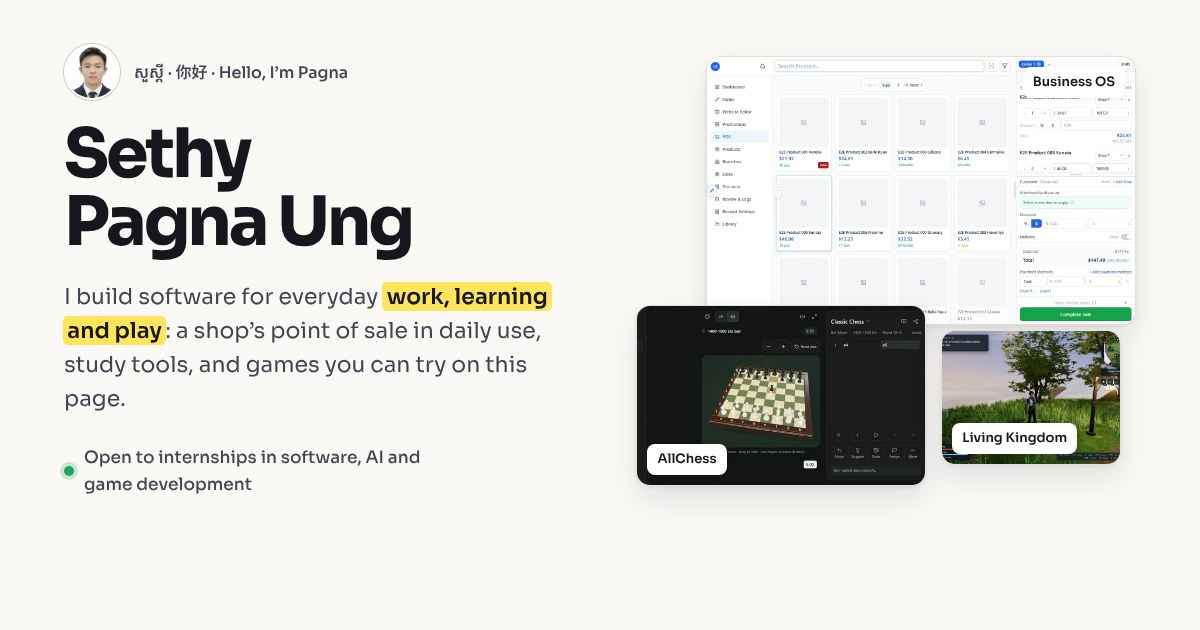
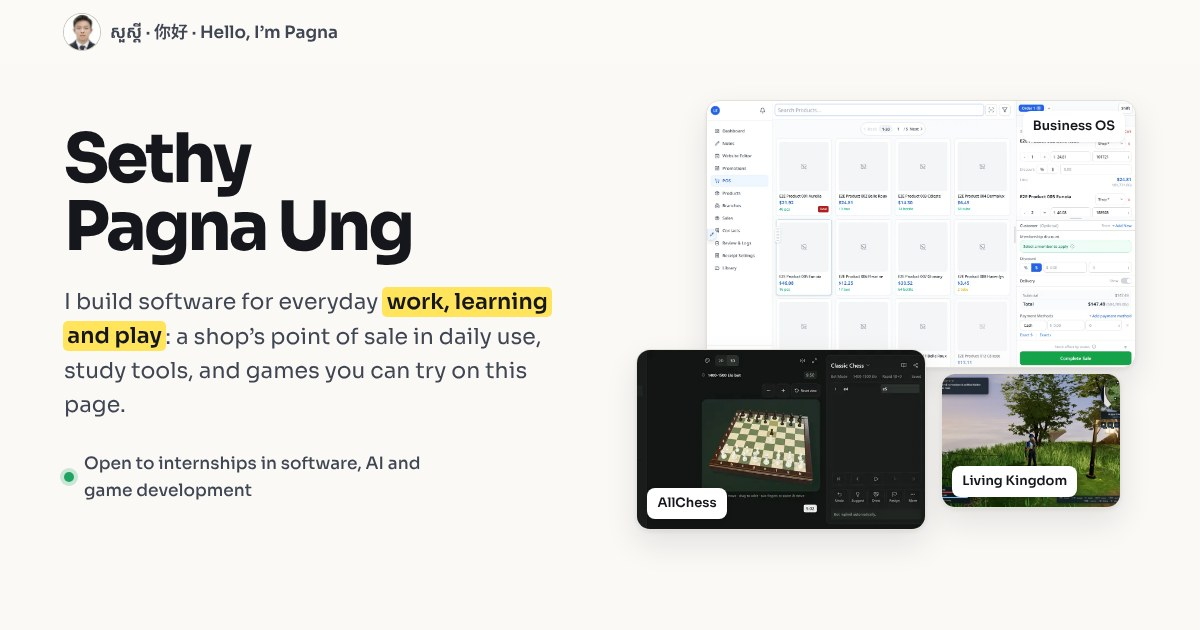
Put the photo and greeting in the top bar and close the hero gap
- The top bar shows the photo and "Hello, I'm Pagna" in place of the
  yellow P mark and name, with the Khmer and Chinese hellos where they
  fit. On screens under 360px only the photo shows, with a spoken name.
- The greeting line is removed from the hero, so the name starts right
  under the bar (36px on desktop instead of about 124px to the name).
- With enlarged text the greeting wraps instead of being cut off.
- The share image is regenerated to match.

Claude-Session: https://claude.ai/code/session_019SAQEoeDjeXiJVpTtL1tnm

diff --git a/portfolio/css/site.css b/portfolio/css/site.css
@@ -158,12 +158,13 @@ kbd {
 
 /* ------------------------------------------------------------ top bar */
 
-.topbar { position: sticky; top: 0; z-index: 40; height: var(--topbar); background: color-mix(in srgb, var(--bg) 88%, transparent); backdrop-filter: saturate(1.4) blur(12px); border-bottom: 1px solid transparent; transition: border-color .2s; }
+.topbar { position: sticky; top: 0; z-index: 40; background: color-mix(in srgb, var(--bg) 88%, transparent); backdrop-filter: saturate(1.4) blur(12px); border-bottom: 1px solid transparent; transition: border-color .2s; }
 .topbar.scrolled { border-bottom-color: var(--line); }
-.topbar-in { display: flex; align-items: center; gap: 24px; height: 100%; }
-.brand { display: inline-flex; align-items: center; gap: 10px; min-height: 40px; color: var(--ink); text-decoration: none; font-weight: 650; letter-spacing: -.01em; white-space: nowrap; }
+.topbar-in { display: flex; align-items: center; gap: 24px; min-height: calc(var(--topbar) - 1px); } /* the bar's bottom border makes up the rest */
+.brand { display: inline-flex; align-items: center; gap: 10px; min-width: 0; min-height: 40px; color: var(--ink-2); text-decoration: none; font-weight: 600; font-size: .9375rem; line-height: 1.25; }
 .brand:hover { color: var(--ink); }
-.brand-mark { display: grid; place-items: center; width: 32px; height: 32px; border-radius: 9px; background: var(--mark); color: var(--on-mark); font-weight: 800; font-size: 1.0625rem; }
+.brand-photo { flex: none; width: 36px; height: 36px; border-radius: 50%; object-fit: cover; box-shadow: 0 0 0 1px var(--line-strong); }
+.brand-hello { min-width: 0; padding-block: 4px; }
 .nav { display: flex; gap: 4px; margin-left: auto; }
 .nav a { padding: 8px 14px; border-radius: var(--radius-sm); color: var(--ink-2); font-weight: 550; font-size: .9375rem; text-decoration: none; }
 .nav a:hover { background: var(--tint); color: var(--ink); }
@@ -179,11 +180,9 @@ kbd {
 
 /* ------------------------------------------------------------ hero */
 
-.hero { padding: clamp(24px, 4vw, 48px) 0 clamp(8px, 1.5vw, 16px); }
-.hero-in { display: grid; grid-template-columns: minmax(0, 1.05fr) minmax(0, 1fr); gap: clamp(32px, 5vw, 72px); align-items: center; }
-.hello { display: flex; align-items: center; gap: 14px; color: var(--ink-2); font-weight: 550; }
-.hello img { width: 56px; height: 56px; border-radius: 50%; object-fit: cover; border: 2px solid var(--surface); box-shadow: 0 0 0 1px var(--line-strong); }
-.hero h1 { margin-top: 20px; font-size: clamp(2.75rem, 6.2vw, 4.75rem); font-weight: 750; letter-spacing: -.045em; line-height: 1; }
+.hero { padding: clamp(20px, 3vw, 36px) 0 clamp(8px, 1.5vw, 16px); }
+.hero-in { display: grid; grid-template-columns: minmax(0, 1.05fr) minmax(0, 1fr); gap: clamp(32px, 5vw, 72px); align-items: start; }
+.hero h1 { margin-top: 0; font-size: clamp(2.75rem, 6.2vw, 4.75rem); font-weight: 750; letter-spacing: -.045em; line-height: 1; }
 .hero-lede { margin-top: 24px; max-width: 34em; font-size: clamp(1.125rem, 1.6vw, 1.3125rem); line-height: 1.55; color: var(--ink-2); }
 mark { padding: .05em .2em; margin: 0 -.05em; border-radius: 5px; background: var(--mark); color: var(--on-mark); font-weight: 600; -webkit-box-decoration-break: clone; box-decoration-break: clone; }
 .hero-cta { display: flex; flex-wrap: wrap; gap: 12px; margin-top: 32px; }
@@ -545,6 +544,9 @@ dialog::backdrop { background: var(--backdrop); }
   .pw-next a:last-child { text-align: left; }
 }
 
+/* the Khmer and Chinese hellos show only where they fit beside the menu: wide screens, and phones from 561 to 720px */
+@media (max-width: 560px), (min-width: 721px) and (max-width: 799px) { .hello-langs { display: none; } }
+@media (max-width: 420px) { .topbar-in { gap: 12px; } }
 @media (max-width: 420px) {
   /* facts as label and value rows, so nothing wraps to four lines in a narrow column */
   .facts { grid-template-columns: minmax(0, 1fr); }
@@ -553,8 +555,9 @@ dialog::backdrop { background: var(--backdrop); }
   .facts > div:nth-child(3) { border-left: 0; }
   .facts dd { margin-top: 0; }
 }
+.brand-short { display: none; } /* a spoken name for when only the photo shows */
+@media (max-width: 359px) { .brand-hello { display: none; } .brand-short { display: inline; } } /* just the photo on the narrowest phones */
 @media (max-width: 370px) {
-  .brand-name { display: none; }
   .pw-bar { gap: 4px; padding-inline: 8px; }
   .pw-bar .new-tab { display: none; } /* the details view links to the standalone build too */
   #activity-body { min-height: 916px; }

diff --git a/portfolio/index.html b/portfolio/index.html
@@ -62,8 +62,8 @@
   <header class="topbar" id="topbar">
     <div class="wrap topbar-in">
       <a class="brand" href="#top">
-        <span class="brand-mark" aria-hidden="true">P</span>
-        <span class="brand-name">Sethy Pagna Ung</span><span class="visually-hidden">, back to top</span>
+        <img class="brand-photo" src="img/pagna.webp" width="36" height="36" alt="">
+        <span class="brand-hello"><span class="hello-langs"><span lang="km" class="km">សួស្តី</span> · <span lang="zh" class="zh">你好</span> · </span>Hello, I’m Pagna</span><span class="visually-hidden"><span class="brand-short">Pagna</span>, back to top</span>
       </a>
       <nav class="nav" id="nav" aria-label="Sections">
         <a href="#projects">Work</a>
@@ -89,10 +89,6 @@
     <section class="hero" id="top" aria-labelledby="hero-name">
       <div class="wrap hero-in">
         <div class="hero-copy">
-          <p class="hello">
-            <img src="img/pagna.webp" width="56" height="56" alt="">
-            <span><span lang="km" class="km">សួស្តី</span> · <span lang="zh" class="zh">你好</span> · Hello, I’m Pagna</span>
-          </p>
           <h1 id="hero-name">Sethy Pagna Ung</h1>
           <p class="hero-lede">I build software for everyday <mark>work, learning and play</mark>: a shop’s point of sale in daily use, study tools, and games you can try on this page.</p>
           <div class="hero-cta">
